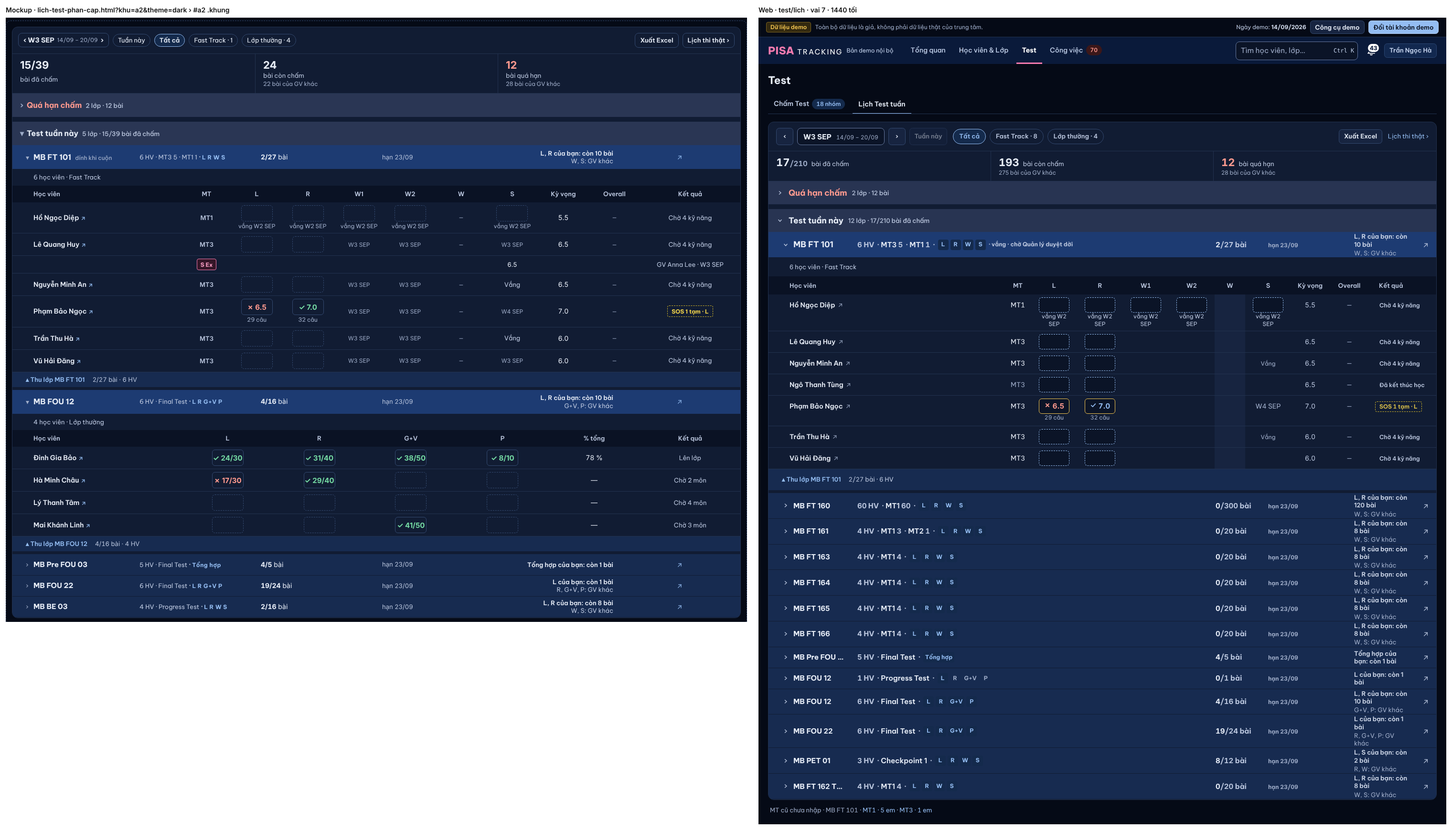
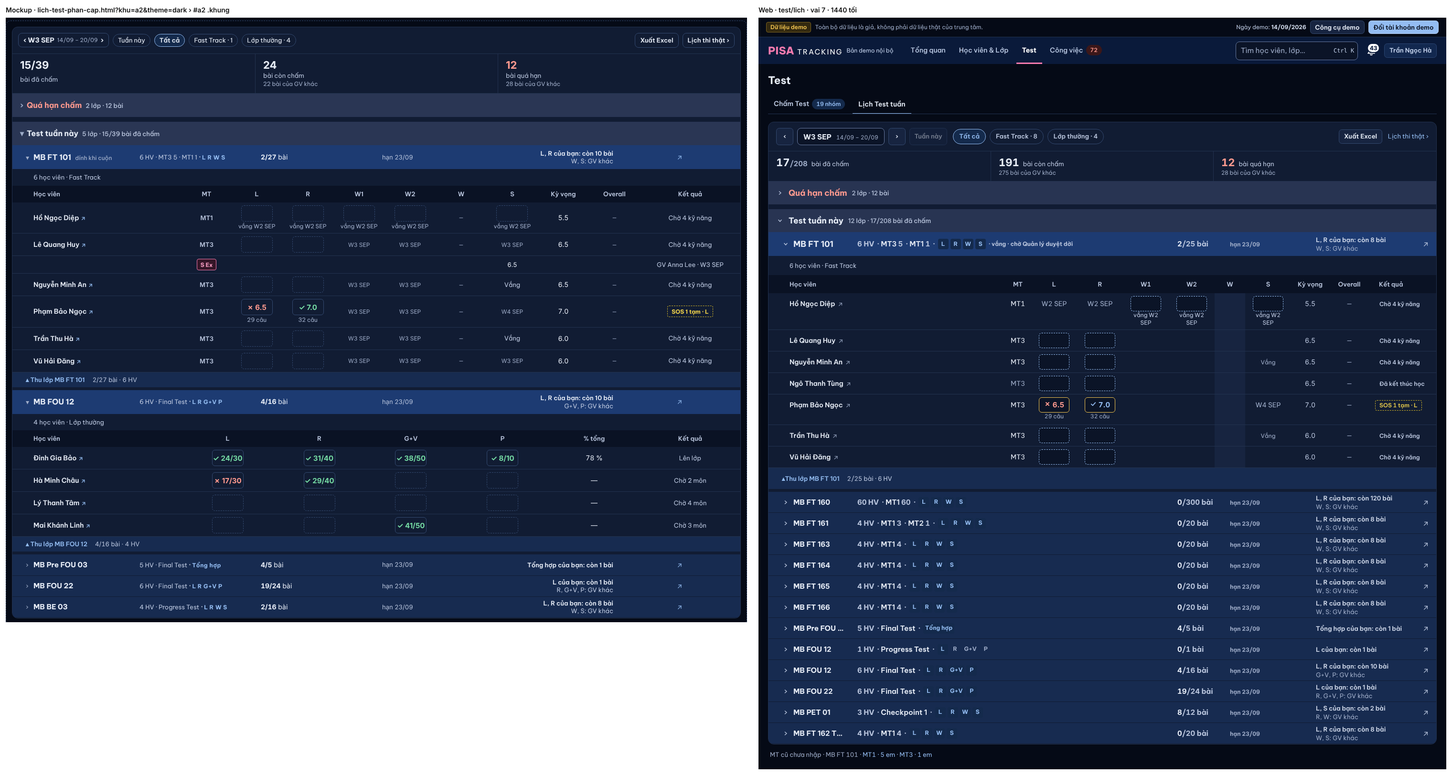
R1-PHAN-CAP-TEST sửa theo PTA 27/10: Dán Excel chỉ kiểm ở Lịch Test (panel / Điểm theo lớp sang R1-BO-DAN-EXCEL), lưới rộng hơn thẻ giữ cuộn ngang (đo .luoi-vua), hộp neo ô chặn bấm ngoài từ mousedown, scroll-padding-top cho vùng cuộn khi có hàng dính (đo bằng focus thật), cột phần của bạn 220 / tên
Claude-Session: https://claude.ai/code/session_01W5p3GumaRNjJf69pMbE8vD

diff --git a/web/src/modules/cham/LuoiFT.tsx b/web/src/modules/cham/LuoiFT.tsx
@@ -229,7 +229,7 @@ export function LuoiFT({ data, onReload, kn = null, hv = null, gon = false, tuan
             sEx={sEx?.filter((x) => x.studentId === r.studentId)} />
         ))}
         {chiSEx.map((d) => (
-          <article key={`sex-${d.id}`} className="flex flex-wrap items-center gap-2 border-b border-[color:var(--line)] py-3 pl-8 pr-3.5">
+          <article key={`sex-${d.id}`} className="flex flex-wrap items-center gap-2 border-b border-[color:var(--line)] py-3 pl-6 pr-3.5">
             <span className="font-semibold">{d.ten}</span><ChipSEx d={d} ten={d.ten} studentId={d.studentId} />
           </article>
         ))}
@@ -525,10 +525,13 @@ function TheHv({ row, lop, active, tuanDangXem, tuanXem, onReload, gvMacDinh, mo
     : <span className="text-xs text-slate-400">{t('Chờ {x} kỹ năng', { x: row.result.required.length - row.result.scoredRequired })}</span>;
   return (
     <>
-    <article className={`flex flex-col gap-2 border-b border-[color:var(--line)] py-3 pl-8 pr-3.5 ${active ? 'dang-mo' : ''} ${row.ngungHoc ? 'row-muted' : ''}`} data-hv={row.studentId}>
-      <div className="flex min-w-0 flex-wrap items-center gap-x-2">
-        <Link className="link inline-flex min-h-[44px] min-w-0 items-center truncate font-semibold" to={duongDotTest({ id: row.attemptId })} state={{ ds: dsLuot }} title={row.studentName}><span className="truncate">{row.studentName}</span></Link>
-        <span className="shrink-0 whitespace-nowrap text-xs text-slate-400">MT{row.attemptNo}{kyVong != null ? ` · ${t('kỳ vọng {kv}', { kv: fmtBand(kyVong) })}` : ''}</span>
+    <article className={`flex flex-col gap-1.5 border-b border-[color:var(--line)] pb-2.5 pl-6 pr-3 pt-1 ${active ? 'dang-mo' : ''} ${row.ngungHoc ? 'row-muted' : ''}`} data-hv={row.studentId}>
+      <div className="flex min-w-0 items-center gap-x-1">
+        <Link className="link inline-flex min-h-[44px] min-w-0 items-center truncate text-sm font-semibold" to={duongDotTest({ id: row.attemptId })} state={{ ds: dsLuot }} title={row.studentName}><span className="truncate">{row.studentName}</span></Link>
+        {/* M2 A2-375: "MT3 · KV 6.5" — dòng đầu một dòng (tên cắt "…" khi dài, tên đủ ở title). */}
+        <span className="shrink-0 whitespace-nowrap text-xs text-slate-400" title={kyVong != null ? t('kỳ vọng {kv}', { kv: fmtBand(kyVong) }) : undefined}>
+          MT{row.attemptNo}{kyVong != null ? ` · ${t('KV {kv}', { kv: fmtBand(kyVong) })}` : ''}
+        </span>
         <span className="ml-auto shrink-0">{ketQua}</span>
       </div>
       <div className="grid grid-cols-5 gap-1.5 text-center">
@@ -561,7 +564,7 @@ function TheHv({ row, lop, active, tuanDangXem, tuanXem, onReload, gvMacDinh, mo
     </article>
     {/* M2 A2-375: S Ex là dòng phụ DƯỚI thẻ em (không phải một em khác). */}
     {sEx?.map((d) => (
-      <div key={d.id} className="flex flex-wrap items-center gap-2 border-b border-[color:var(--line)] py-1.5 pl-8 pr-3.5 text-[13px] text-slate-400">
+      <div key={d.id} className="flex flex-wrap items-center gap-2 border-b border-[color:var(--line)] py-1.5 pl-6 pr-3.5 text-[13px] text-slate-400">
         <ChipSEx d={d} ten={row.studentName} studentId={row.studentId} />{d.nguoiCham}
       </div>
     ))}
@@ -592,8 +595,9 @@ function DongSExHv({ d, ten, studentId, cotDs, cc, rieng }: {
   );
   const chipCotMt = iMt === 1 && !rieng;
   /* Cột giữa (MT/tên … S) và cột sau S (… Kết quả): đếm theo định nghĩa cột đang hiện. */
-  const giua = Math.max(iS - (chipCotMt ? 2 : 1), 0);
-  const sau = Math.max(cotDs.length - iS - 2, 0);
+  const dau = chipCotMt ? 2 : 1, iKq = cotDs.length - 1;   // Kết quả luôn là cột cuối
+  const giua = (iS > 0 ? iS : iKq) - dau;   // không có cột S (mở từ việc): ô giữa trải tới Kết quả
+  const sau = iS > 0 ? iKq - iS - 1 : 0;
   const ketQua = [d.nguoiCham, tuanLich(d.tuan, homNay)].filter(Boolean).join(' · ');
   return (
     <tr className="do-hang dong-sex" data-hv={studentId} data-sex={d.id}>

diff --git a/web/src/index.css b/web/src/index.css
@@ -258,13 +258,13 @@
     td .bang-dinh { overflow-x: auto; overflow-y: hidden; --th-top: 0px; }
     /* OV-14b: lưới trong panel việc (Công việc / Tổng quan) rộng hơn panel — cuộn trong khung riêng, đầu panel không trôi ngang theo. */
     .luoi-trong-panel .bang-dinh { overflow-x: auto; overflow-y: hidden; --th-top: 0px; }
-    /* R1-PHAN-CAP-TEST: lưới mở dưới hàng lớp Lịch Test (lớp 60 em) — đầu cột dính ngay dưới hàng lớp dính (cao 50), không khung cuộn riêng. 1280–1439 trả lại khung cuộn (dưới). */
-    .lich-luoi .bang-dinh { overflow: visible; --th-top: calc(50px - 1.25rem); }
+    /* R1-PHAN-CAP-TEST: lưới mở dưới hàng lớp Lịch Test VỪA thẻ (`.luoi-vua`, LuoiNhung đo) — đầu cột dính ngay dưới hàng lớp dính (cao 50),
+       không khung cuộn riêng. Lưới rộng hơn thẻ (lớp thường 4 môn) giữ khung cuộn ngang. */
+    .lich-luoi .luoi-vua .bang-dinh { overflow: visible; --th-top: calc(50px - 1.25rem); }
   }
   /* Rà #235 I2: bảng RỘNG HƠN khung ở 1280–1439 px (Tổng hợp 1332–1393 px; lưới Điểm theo lớp 1108 px, khung 950 px) giữ khung cuộn riêng, chỉ dính đầu từ 1440. */
   @media (min-width: 1280px) and (max-width: 1439px) {
     .bang-dinh.bang-dinh-1440 { overflow-x: auto; overflow-y: hidden; }
-    .lich-luoi .bang-dinh { overflow-x: auto; overflow-y: hidden; --th-top: 0px; }
   }
 
   /* VN17: có panel / hộp thoại mở thì toast lên trên (dưới đầu panel), không che nút ở chân panel. */
@@ -447,8 +447,8 @@
   @media not all and (min-width: 768px) { .lich-lop > tbody > tr.hang-lon > td:first-child { padding-left: 20px; } }   /* M2 A2-375: thụt 20 */
   .lich-lop > tbody > tr.hang-lon.dang-mo .ten-lop { font-size: 17px; }   /* mockup 16 → 17: bậc gần nhất của thang chữ (do-bang g5) */
   .day-khoi { background: var(--cap-lop-dong); }
-  /* Ô / thẻ em không trốn dưới hàng lớp dính khi con trỏ / "Lưu · bài tiếp" cuộn tới. */
-  .lich-luoi :is(td, article) { scroll-margin-top: 64px; }
+  /* Ô / nút / ô nhập không trốn dưới hàng lớp dính (+ đầu cột lưới dính ≥ 1280) khi focus / con trỏ / "Lưu · bài tiếp" cuộn tới. */
+  #noi-dung:has(.lich-lop tr.dang-mo) { scroll-padding-top: 96px; }
   .lich-luoi .bang th { background: var(--cap-dau-cot); border-bottom: 0; }
   .lich-luoi .bang-cong-cu { padding: 4px 12px 6px 44px; }   /* công cụ trên lưới lớp thường (Tổng số câu · Điền ô trống) thẳng cột Học viên */
   .lich-luoi .bang :is(th, td):first-child { padding-left: 44px; }

diff --git a/web/src/modules/test/lichTest/HangLop.tsx b/web/src/modules/test/lichTest/HangLop.tsx
@@ -125,7 +125,7 @@ export function HangLop({ lop, moCua, onMo, onLopTiep, coChiNhanh, hep, urlClass
   /** SV-S-EXPERT: lượt S Ex của tuần — cột S Ex trong lưới FT. */
   sEx: LichTest['sEx'];
 }) {
-  const cot = hep ? [null, 92, 96] : [174, null, ...(coChiNhanh ? [110] : []), 110, 180, 140, 44];   // hạn quá: "hạn 26/08 ⚠ quá hạn n ngày"
+  const cot = hep ? [null, 92, 96] : [190, null, ...(coChiNhanh ? [110] : []), 110, 180, 220, 44];   // "L, R của bạn: còn 120 bài" một dòng   // hạn quá: "hạn 26/08 ⚠ quá hạn n ngày"
   const soCot = cot.length;
   /* Lớp kế (sau lớp này, vòng lên) còn bài của người xem — cùng số "… của bạn: còn n bài" ở hàng lớp. */
   const onHet = (l: LopLichTest) => () => {
@@ -186,14 +186,14 @@ export function HangLop({ lop, moCua, onMo, onLopTiep, coChiNhanh, hep, urlClass
                  (lớp dài khỏi cuộn ngược) + số cùng nguồn hàng lớp. */
               <div className="day-khoi mb-1.5 flex flex-wrap items-center gap-x-4 gap-y-1 py-1.5 pl-7 pr-4 text-[13px] text-slate-400 max-md:pl-5">
                 <button type="button" aria-expanded
-                  className="link inline-flex min-h-[32px] items-center appearance-none border-0 bg-transparent p-0 font-semibold no-underline max-sm:min-h-[44px]"
+                  className="link inline-flex min-h-[32px] items-center gap-1 appearance-none border-0 bg-transparent p-0 font-semibold no-underline max-sm:min-h-[44px]"
                   onClick={(e) => {
                     const bang = e.currentTarget.parentElement?.previousElementSibling;
                     onMo(l);
                     /* Nút này mất khi thu → con trỏ phím về ▸ của hàng lớp. */
                     requestAnimationFrame(() => { bang?.scrollIntoView({ block: 'nearest' }); bang?.querySelector<HTMLElement>('button[aria-expanded]')?.focus({ preventScroll: true }); });
                   }}>
-                  ▴ {t('Thu lớp {classCode}', { classCode: l.classCode })}
+                  <span aria-hidden>▴</span> {t('Thu lớp {classCode}', { classCode: l.classCode })}
                 </button>
                 <span className="tabular-nums">{t('{daCham}/{tong} bài · {n} HV', { daCham: l.daCham, tong: l.tong, n: l.soHv })}</span>
               </div>

diff --git a/server/src/tests/r1PhanCapTest.tests.ts b/server/src/tests/r1PhanCapTest.tests.ts
@@ -1,6 +1,6 @@
 /**
  * PHÉP KIỂM R1-PHAN-CAP-TEST (kế hoạch docs/superpowers/plans/2026-10-26-r1-phan-cap-test.md) — kiểm tĩnh mã web:
- * (DAN) bỏ "Dán từ Excel" + "?" CHỈ ở lưới mở tại chỗ của Lịch Test (chủ SP 26/10) — panel Nhập điểm (Công việc) và Điểm theo lớp vẫn có;
+ * (DAN) lưới mở tại chỗ của Lịch Test không có "Dán từ Excel" + "?" (chủ SP 26/10; panel Nhập điểm / Điểm theo lớp bỏ ở PR R1-BO-DAN-EXCEL);
  * (TOKEN) 4 token màu cấp có ở cả chế độ tối (:root) và sáng.
  */
 import fs from 'node:fs';
@@ -11,15 +11,11 @@ const ROOT = path.resolve(path.dirname(fileURLToPath(import.meta.url)), '..', '.
 const doc = (rel: string) => fs.readFileSync(path.join(ROOT, rel), 'utf8');
 
 export async function runR1PhanCapTestTests({ check, assert }: { check: (ten: string, fn: () => void) => void; assert: (c: unknown, m: string) => void }) {
-  check('R1-PHAN-CAP-TEST · DAN: LuoiNhung tắt Dán theo coLinkRieng; chỉ hai lưới Lịch Test (HangLop, KhoiNo) bật coLinkRieng', () => {
+  check('R1-PHAN-CAP-TEST · DAN: lưới Lịch Test (HangLop, KhoiNo) không có Dán — LuoiNhung tắt Dán theo coLinkRieng', () => {
     assert(/<LuoiChamLop[\s\S]{0,600}?anDan=\{coLinkRieng\}/.test(doc('web/src/modules/test/lichTest/LuoiNhung.tsx')), 'LuoiNhung phải truyền anDan={coLinkRieng}');
     for (const f of ['web/src/modules/test/lichTest/HangLop.tsx', 'web/src/modules/test/lichTest/KhoiNo.tsx']) {
       assert(/<LuoiNhung[\s\S]{0,600}?coLinkRieng/.test(doc(f)), `${f}: lưới Lịch Test phải có coLinkRieng`);
     }
-    const panel = doc('web/src/modules/congViec/PanelViec.tsx');
-    assert(!/\banDan\b|\bcoLinkRieng\b/.test(panel), 'PanelViec (panel Nhập điểm) giữ Dán từ Excel — không anDan / coLinkRieng');
-    assert(!/\banDan\b/.test(doc('web/src/modules/cham/DiemTheoLop.tsx')), 'Điểm theo lớp giữ Dán từ Excel — không anDan');
-    assert(/const coDan = !anDan &&/.test(doc('web/src/modules/cham/LuoiChamLop.tsx')), 'LuoiChamLop: anDan tắt nút Dán + ?');
   });
   check('R1-PHAN-CAP-TEST · TOKEN: --cap-nhom / --cap-lop / --cap-lop-dong / --cap-dau-cot có ở tối và sáng', () => {
     const css = doc('web/src/index.css');

diff --git a/web/src/modules/test/lichTest/LuoiNhung.tsx b/web/src/modules/test/lichTest/LuoiNhung.tsx
@@ -1,4 +1,4 @@
-import { useMemo } from 'react';
+import { useEffect, useMemo, useRef, useState } from 'react';
 import { Link } from 'react-router-dom';
 import { attemptCuaEm } from '@shared/domain/index.ts';
 import { useApi } from '../../../lib/useApi.ts';
@@ -34,6 +34,21 @@ export function LuoiNhung({ classId, periodId, kind, tuanDangXem, chiAttempt: ch
   const { data, error, reload } = useApi<Cham>(duongCham(classId, { periodId, kind }));
   const chiAttempt = useMemo(() => chiAttemptVao ?? (chiHv && data ? attemptCuaEm(data.ft?.rows ?? data.thuong?.rows ?? [], chiHv) : null),
     [chiAttemptVao, chiHv, data]);
+  /* R1-PHAN-CAP-TEST: Lịch Test — lưới VỪA thẻ thì bỏ khung cuộn riêng để đầu cột dính dưới hàng lớp (CSS `.luoi-vua`); rộng hơn (lớp thường
+     4 môn) giữ cuộn ngang, không cắt cột. Đo lại khi thẻ / bảng đổi cỡ. */
+  const khung = useRef<HTMLDivElement>(null);
+  const [vua, setVua] = useState(false);
+  useEffect(() => {
+    const el = khung.current;
+    if (!coLinkRieng || !el || typeof ResizeObserver === 'undefined') return undefined;
+    const bang = el.querySelector('table');
+    const do_ = () => setVua(!!bang && bang.offsetWidth <= el.clientWidth + 1);
+    const ro = new ResizeObserver(do_);
+    ro.observe(el);
+    if (bang) ro.observe(bang);
+    do_();
+    return () => ro.disconnect();
+  }, [coLinkRieng, data]);
   /* UI-LICH-TUAN: Lịch tuần chính là lưới đầy đủ (`/nhap-diem/*` chuyển về đây) — không lặp link; panel việc vẫn có. */
   const link = coLinkRieng ? null : (
     <Link to={hrefDayDu} className="inline-flex min-h-[32px] max-sm:min-h-10 items-center px-2 text-xs text-slate-400 no-underline hover:text-slate-100"
@@ -42,7 +57,7 @@ export function LuoiNhung({ classId, periodId, kind, tuanDangXem, chiAttempt: ch
     </Link>
   );
   return (
-    <div className={coLinkRieng ? '' : 'py-1'}>
+    <div ref={khung} className={coLinkRieng ? (vua ? 'luoi-vua' : '') : 'py-1'}>
       {error ? <ErrorState message={error.message} hint={error.hint} onRetry={reload} />
         : !data ? <Skeleton rows={4} />
         : (

diff --git a/shared/huongDan/gv.ts b/shared/huongDan/gv.ts
@@ -79,8 +79,7 @@ export const HD_GV: HuongDan = {
     {
       id: 'lich-test', ten: 'Lịch Test', duong: ['/test', '/test/lich'],
       muc: [
-        { id: 'lt-ba-khoi', ten: 'Lịch Test tuần', buoc: ['Một tuần (<b>‹ W3 SEP ›</b>, <b>Tuần này</b>): <b>Quá hạn chấm</b> (theo hôm nay, không đổi theo tuần) · <b>Test tuần này</b> — mỗi lớp một dòng, hạn dd/mm.', 'Bấm dòng lớp: lưới từng em mở ngay dưới, gõ điểm tại chỗ; S Ex là dòng phụ của em.',
-          'Dán nhiều điểm từ Excel: dùng panel <b>Nhập điểm</b> (Học viên & Lớp › <b>⋯</b> › Nhập điểm) — lưới Lịch Test không có nút Dán.'],
+        { id: 'lt-ba-khoi', ten: 'Lịch Test tuần', buoc: ['Một tuần (<b>‹ W3 SEP ›</b>, <b>Tuần này</b>): <b>Quá hạn chấm</b> (theo hôm nay, không đổi theo tuần) · <b>Test tuần này</b> — mỗi lớp một dòng, hạn dd/mm.', 'Bấm dòng lớp: lưới từng em mở ngay dưới, gõ điểm tại chỗ; S Ex là dòng phụ của em.'],
           chi: { hd: 'lich-test-tuan', duong: '/test/lich', chu: 'Bài tuần trước cần chấm nằm ở khối này.' } },
       ],
     },

diff --git a/web/src/modules/test/LichTestTab.tsx b/web/src/modules/test/LichTestTab.tsx
@@ -214,8 +214,10 @@ export function LichTestTab() {
   const tenKhung = (k: Loai) => (k === 'ft' ? 'Fast Track' : t('Lớp thường'));
   /* R1-PHAN-CAP-TEST (M2 A2): "5 lớp · 15/39 bài đã chấm" — số bài cùng nguồn ô "bài đã chấm" của dải số (theo khung đang xem). */
   const tqKhung = loai ? data.tongQuanKhung[loai] : data.tongQuan;
+  /* 375: bỏ "n lớp ·" để tên nhóm + số một dòng. */
   const tomTatTuan = lopTab.length
-    ? t('{n} lớp · {daCham}/{tong} bài đã chấm', { n: new Set(lopTab.map((l) => l.classId)).size, daCham: tqKhung.daCham, tong: tqKhung.tong }) : t('Không có Test');
+    ? <><span className="max-sm:hidden">{t('{n} lớp · ', { n: new Set(lopTab.map((l) => l.classId)).size })}</span>{t('{daCham}/{tong} bài đã chấm', { daCham: tqKhung.daCham, tong: tqKhung.tong })}</>
+    : t('Không có Test');
 
   const tuanPicker = (
     <WeekPicker gon periodId={periodParam ?? data.tuan?.id ?? null} onPeriod={(id) => datThamSo({ periodId: id ? String(id) : null })} />

diff --git a/web/src/modules/fasttrack/HopNhapDiem.tsx b/web/src/modules/fasttrack/HopNhapDiem.tsx
@@ -650,7 +650,9 @@ function KhungHop({ anchor, ten, phu, nhanHop, daGo, cauBo, onDong, onKeyDown, c
     if ((e.target as HTMLElement).closest('[role="dialog"], [role="menu"], [role="listbox"]')) return;
     if (!moi.current.daGo) moi.current.onDong();
     else {
-      /* R1-PHAN-CAP-TEST: đã gõ → cú bấm ra ngoài không làm gì (vd thu lớp chứa ô — mất chữ); hỏi Bỏ · Gõ tiếp như Esc. */
+      /* R1-PHAN-CAP-TEST: đã gõ → cú bấm ra ngoài không làm gì (vd thu lớp chứa ô — mất chữ; focus không sang nút đó, <select> không mở);
+         hỏi Bỏ · Gõ tiếp như Esc. */
+      e.preventDefault();
       const chan = (ev: Event) => { if (!box.current?.contains(ev.target as Node)) { ev.stopPropagation(); ev.preventDefault(); } };
       document.addEventListener('click', chan, { capture: true, once: true });
       setTimeout(() => document.removeEventListener('click', chan, true), 1000);   // kéo chuột ra ngoài không thành click → gỡ chặn

diff --git a/web/src/ui/Filters.tsx b/web/src/ui/Filters.tsx
@@ -175,8 +175,9 @@ export function WeekPicker({ periodId, onPeriod, label = t('Tuần'), scope, cle
           className="field inline-flex h-9 w-auto min-w-0 items-baseline gap-2.5 !px-3 tabular-nums max-sm:h-11">
           {shown ? (
             <>
-              <b className="font-bold text-slate-100">{tuanLich(shown.weekStart, today)}</b>
-              <span className="text-xs text-slate-500">{ngay(shown.weekStart, today)} – {ngay(addDaysStr(shown.weekStart, 6), today)}</span>
+              <b className="whitespace-nowrap font-bold text-slate-100">{tuanLich(shown.weekStart, today)}</b>
+              {/* 375: chỉ mã tuần (ô không xuống dòng); ngày trong lịch khi bấm. */}
+              <span className="whitespace-nowrap text-xs text-slate-500 max-sm:hidden">{ngay(shown.weekStart, today)} – {ngay(addDaysStr(shown.weekStart, 6), today)}</span>
             </>
           ) : <span className="text-slate-500">{t('Đang tải…')}</span>}
         </button>

diff --git a/shared/i18n/en/r1PhanCapTest.ts b/shared/i18n/en/r1PhanCapTest.ts
@@ -6,6 +6,6 @@ export const EN_R1_PHAN_CAP_TEST = {
   '{daCham}/{tong} bài · {n} HV': (b) => `${b.daCham}/${b.tong} tests · ${b.n} ${Number(b.n) === 1 ? 'student' : 'students'}`,
   'S Expert ngày {ngay}': 'S Expert on {ngay}',
   'S Expert của {ten}': 'S Expert of {ten}',
-  'Dán nhiều điểm từ Excel: dùng panel <b>Nhập điểm</b> (Học viên & Lớp › <b>⋯</b> › Nhập điểm) — lưới Lịch Test không có nút Dán.':
-    'To paste many scores from Excel, use the <b>Enter scores</b> panel (Students & Classes › <b>⋯</b> › Enter scores) — the Weekly tests grid has no Paste button.',
+  'KV {kv}': 'Exp. {kv}',
+  '{n} lớp · ': (b) => `${b.n} ${Number(b.n) === 1 ? 'class' : 'classes'} · `,
 } satisfies Record<string, Dich>;

diff --git a/shared/i18n/en/uiLichTuan.ts b/shared/i18n/en/uiLichTuan.ts
@@ -3,7 +3,7 @@ export const EN_UI_LICH_TUAN = {
   'bài còn chấm': 'to score',
   'Đang chấm': 'Scoring',
   'Chưa chấm': 'Not started',
-  '{n} lớp · {daCham}/{tong} bài đã chấm': '{n} classes · {daCham}/{tong} tests scored',
+  '{daCham}/{tong} bài đã chấm': '{daCham}/{tong} tests scored',
   'Không có Test': 'No tests',
   'Test tuần này': 'Tests this week',
   'Lịch Test tuần': 'Weekly tests',

diff --git a/docs/anh/r1-phan-cap-test/khop-khac.md b/docs/anh/r1-phan-cap-test/khop-khac.md
@@ -3,10 +3,22 @@
 Kế hoạch: `docs/superpowers/plans/2026-10-26-r1-phan-cap-test.md` · thiết kế `docs/superpowers/specs/2026-10-26-deploy-ux-design.md` mục 4.2.
 Dữ liệu: `SEED_LON=1 npm run seed` (seed nguyên + MB FT 160 60 HV + MB FT 161–166 W3 SEP). Vai GV 7 (Trần Ngọc Hà) và QL 2 (Nguyễn Khánh Vy).
 
+## Đã sửa theo PTA (27/10)
+
+Chủ SP 27/10: mockup là gợi ý — không chấm khớp từng chi tiết; cần đẹp, dễ nhìn, không lệch, không thừa chữ, không xuống dòng vô tội vạ.
+- Dán Excel: PR này chỉ bỏ ở lưới Lịch Test; panel / Điểm theo lớp bỏ ở **R1-BO-DAN-EXCEL** — phép kiểm DAN chỉ còn kiểm Lịch Test; bỏ câu Hướng dẫn GV.
+- Lưới rộng hơn thẻ không còn bị cắt cột (`LuoiNhung` đo lưới vừa thẻ → `.luoi-vua`); đầu cột dính chỉ khi vừa.
+- Hộp neo ô chặn bấm ra ngoài từ mousedown (focus không rời hộp).
+- `scroll-padding-top: 96px` cho `#noi-dung` khi có hàng lớp dính (thay `scroll-margin` trên td / article) — focus thật / ↑ / Enter không trốn dưới hàng lớp + đầu cột dính; phép đo dùng `.focus()` thật.
+- 1440: cột "L, R của bạn: còn n bài" rộng 220 → tối đa 2 dòng, hàng lớp 44 px; cột tên lớp 190 (hết cắt "MB Pre FOU 03"); "▴ Thu lớp" có khoảng cách, ▴ `aria-hidden`.
+- 375: ô tuần chỉ mã tuần (một dòng); "Test tuần này" + "17/208 bài đã chấm" một dòng (ẩn "n lớp ·"); thẻ em một dòng "tên · MT3 · KV 6.5 · kết quả", bớt đệm.
+- Dòng S Ex thẳng cột cả khi lưới không có cột S.
+
 ## Ảnh
 
 | Tệp | Nội dung |
 |---|---|
+| `sau-fou-4-mon-1440-toi-ql2.png` | QL mở MB FOU 12 (lớp thường 4 môn, lưới 1409 px > thẻ): cuộn ngang, không cắt cột |
 | `cap-1440-toi-gv7.png` | Ảnh cặp mockup A2 \| web, 1440 tối, GV 7 — **ảnh chính để duyệt** |
 | `cap-1440-toi-ql2.png` | như trên, QL 2 |
 | `cap-1440-sang-gv7.png` | 1440 sáng, GV 7 |
@@ -14,7 +26,7 @@ Dữ liệu: `SEED_LON=1 npm run seed` (seed nguyên + MB FT 160 60 HV + MB FT 1
 | `cap-125pt-toi-gv7.png` | zoom 125 % (= khung 1152 px), tối, GV 7 |
 | `sau-mo-3-lop-1440-toi.png`, `sau-mo-3-lop-1440-sang.png` | web: mở thêm MB FT 163 (dòng S Ex) + MB FOU 12 (lưới lớp thường) |
 | `sau-sex-375-sang.png` | 375 sáng: dòng S Ex dưới thẻ em, đáy khối "▴ Thu lớp" (hàng lớp dính ở cuối khối) |
-| `sau-cham-test-1440-toi.png` | Chấm Test: nhóm trái thanh `--cap-nhom`; panel Nhập điểm **vẫn có "Dán từ Excel" + "?"** |
+| `sau-cham-test-1440-toi.png` | Chấm Test: nhóm trái thanh `--cap-nhom` (panel Nhập điểm còn "Dán từ Excel" tới khi R1-BO-DAN-EXCEL merge) |
 | `truoc-1440-toi.png` | TRƯỚC: mockup H (hiện tại) \| web trước PR, 1440 tối |
 | `truoc-375-sang-gv7.png` | TRƯỚC: mockup A2-375 \| web main, 375 sáng |
 
@@ -55,8 +67,8 @@ Dữ liệu: `SEED_LON=1 npm run seed` (seed nguyên + MB FT 160 60 HV + MB FT 1
 | 31 | Lưới lớp thường cùng cấp (đầu cột, thụt, nhãn "Lớp thường") | `LuoiThuong` qua cùng CSS; công cụ "Tổng số câu" thụt 44 | KHỚP |
 | 32 | 375: thanh nhóm `--cap-nhom`, chữ 16 | 17 | KHỚP màu / KHÁC cỡ — tính chung #7 |
 | 33 | 375: lớp mở `--cap-lop` dính, lớp đóng `--cap-lop-dong`, thụt 20 | `@media < 768` 20 px | KHỚP (dính 50 / 812 = 6 % chiều cao < 30 %) |
-| 34 | 375: thẻ em nền thẻ thụt 32 | `TheHv pl-8` | KHỚP |
-| 35 | 375: "MT3 · KV 6.5" một dòng với tên | "MT3 · kỳ vọng 6.5" + kết quả (có sẵn) — dòng đầu xuống dòng khi chật thay vì cắt tên | **KHÁC** — giữ chữ đủ + kết quả |
+| 34 | 375: thẻ em nền thẻ thụt 32 | `TheHv pl-6` (24 — tên em đủ chữ một dòng) | KHỚP (thụt nhỏ hơn 8 px) |
+| 35 | 375: "MT3 · KV 6.5" một dòng với tên | `TheHv`: tên · "MT3 · KV 6.5" (title "kỳ vọng 6.5") · kết quả — một dòng, không xuống dòng | KHỚP |
 | 36 | 375: dòng S Ex dưới thẻ em "S Ex 6.5 · GV" | dòng phụ dưới `TheHv`: chip S Ex (bấm mở hộp S Ex) + người chấm | KHỚP |
 | 37 | 375: đáy khối "▴ Thu lớp" | `.day-khoi` (cao 44 ở điện thoại) | KHỚP |
 | 38 | Chấm Test: nhóm trái cùng dáng thanh nhóm | `ChamTestTab` `Nhom` nền `--cap-nhom` | KHỚP |
@@ -72,12 +84,12 @@ Chủ SP quyết theo ảnh cặp (cách đếm thứ hai cần chủ SP đồng
 |---|---|---|
 | Mở / thu lớp bằng hàng lớp (▸ / bấm hàng) | có | giữ |
 | Thu lớp khi đang ở cuối lớp dài | cuộn ngược lên hàng lớp | **thêm "▴ Thu lớp {mã}"** ở đáy khối (cùng thao tác, `aria-expanded`), sau thu cuộn về hàng lớp |
-| Biết đang ở lớp nào khi cuộn | không (hàng lớp trôi mất) | hàng lớp mở **dính** mép trên khi cuộn trong khối; từ 1440 **đầu cột lưới dính ngay dưới** (lớp 60 em vẫn đọc cột) |
+| Biết đang ở lớp nào khi cuộn | không (hàng lớp trôi mất) | hàng lớp mở **dính** mép trên khi cuộn trong khối; lưới **vừa thẻ** (từ 1280) thì **đầu cột lưới dính ngay dưới** (lớp 60 em vẫn đọc cột); lưới rộng hơn thẻ (QL, lớp thường 4 môn ~1409 px) giữ **cuộn ngang**, không cắt cột |
 | Nhập điểm (hộp, "Lưu · bài tiếp ›"), Lịch sử ô, ↗ hồ sơ lớp / HV, GV chấm S, Lớp tiếp, Xuất Excel, Hiện tất cả n | có | giữ (không đụng) |
-| **Dán từ Excel + "?" ở lưới Lịch Test** (dưới hàng lớp và dòng Quá hạn chấm) | có | **bỏ** (chủ SP 26/10) — vẫn còn ở **panel Nhập điểm** (Công việc, Chấm Test) và **Điểm theo lớp**; phép kiểm `R1-PHAN-CAP-TEST · DAN` |
+| **Dán từ Excel + "?"** | có | **bỏ** — chủ SP 26/10. PR này bỏ ở lưới Lịch Test (dưới hàng lớp và dòng Quá hạn chấm; phép kiểm `R1-PHAN-CAP-TEST · DAN`); ở panel Nhập điểm / Điểm theo lớp bỏ ở PR **R1-BO-DAN-EXCEL** |
 | S Ex: bấm ô điểm S Ex mở hộp S Ex | có | giữ |
 | Ô lưu hỏng mà lớp bị thu | lưới giữ ẩn, không mất giá trị | giữ |
-| Đang gõ trong hộp nhập điểm rồi bấm ra ngoài (vd thu lớp) | hộp ở lại nhưng cú bấm vẫn chạy → lớp thu, chữ đang gõ mất (main cũng vậy) | **cú bấm bị chặn**, hộp hỏi **Bỏ · Gõ tiếp** (như Esc) — áp cho mọi hộp neo ô (`KhungHop`: điểm MT, nhận xét lớp thường) |
+| Đang gõ trong hộp nhập điểm rồi bấm ra ngoài (vd thu lớp) | hộp ở lại nhưng cú bấm vẫn chạy → lớp thu, chữ đang gõ mất (main cũng vậy) | **cú bấm bị chặn từ mousedown** (focus ở lại hộp, `<select>` không mở, Enter sau đó không thu lớp), hộp hỏi **Bỏ · Gõ tiếp** (như Esc) — mọi hộp neo ô (`KhungHop`) |
 
 ## Đo
 
